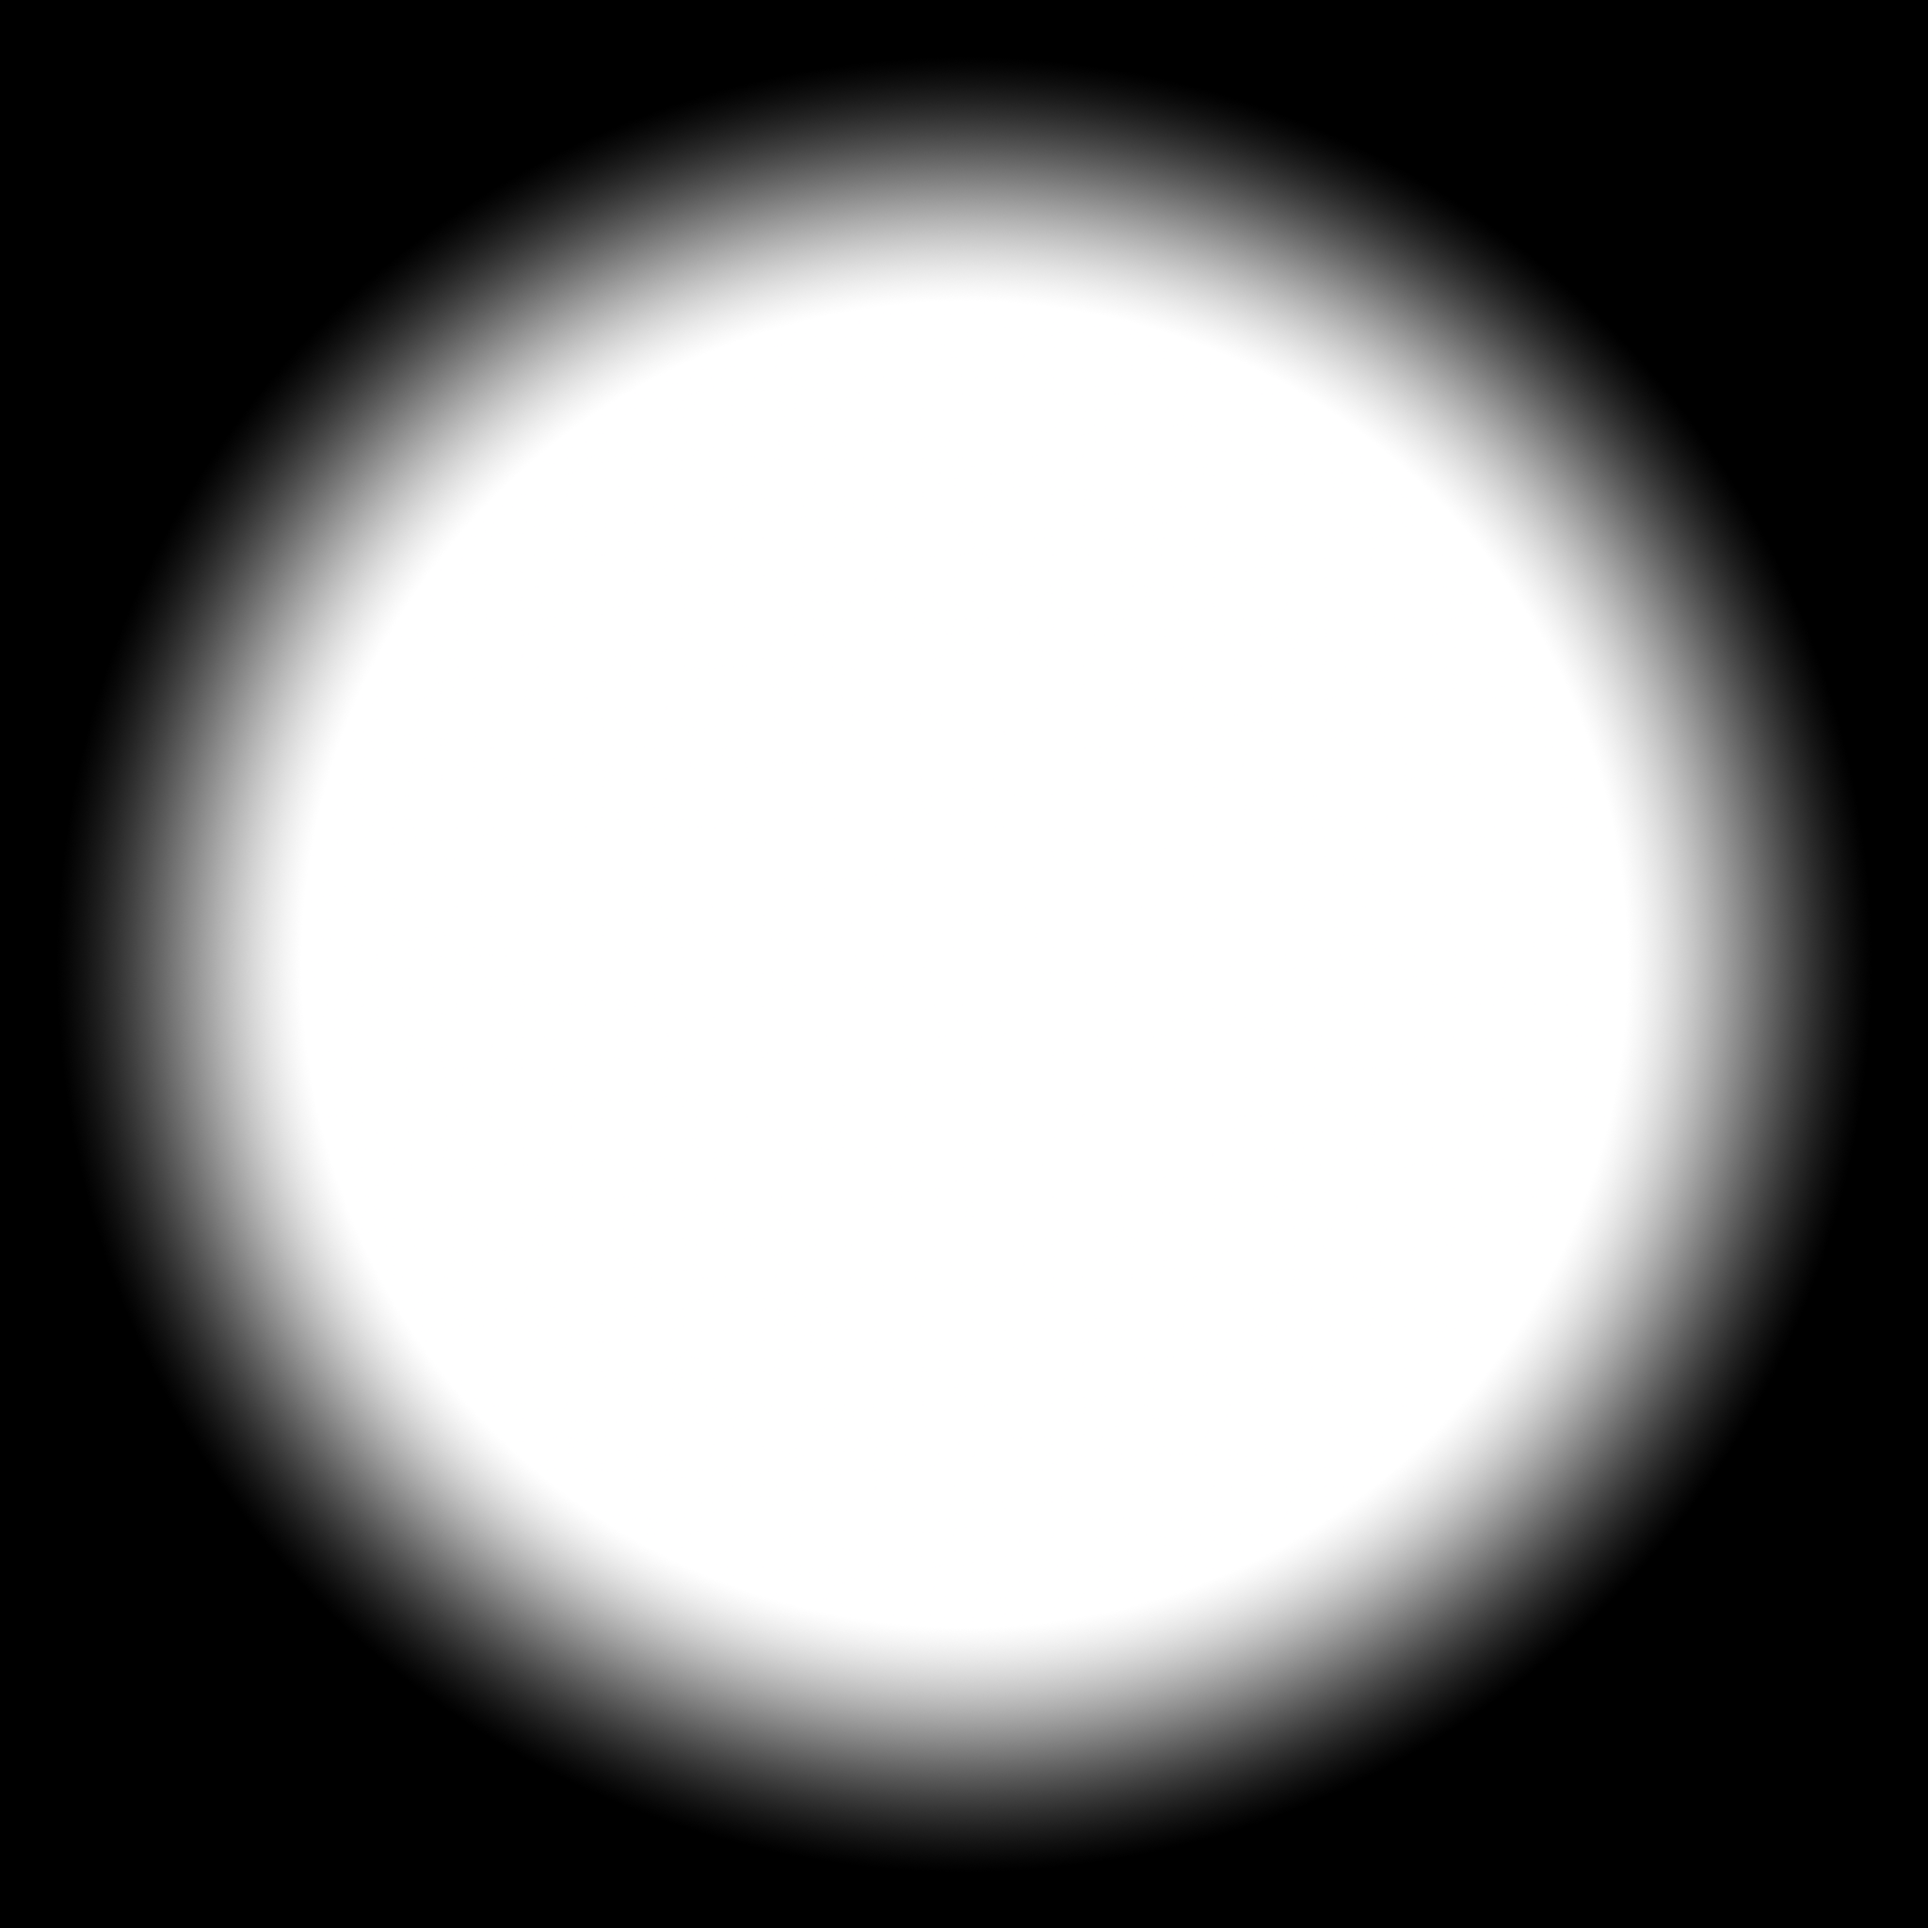
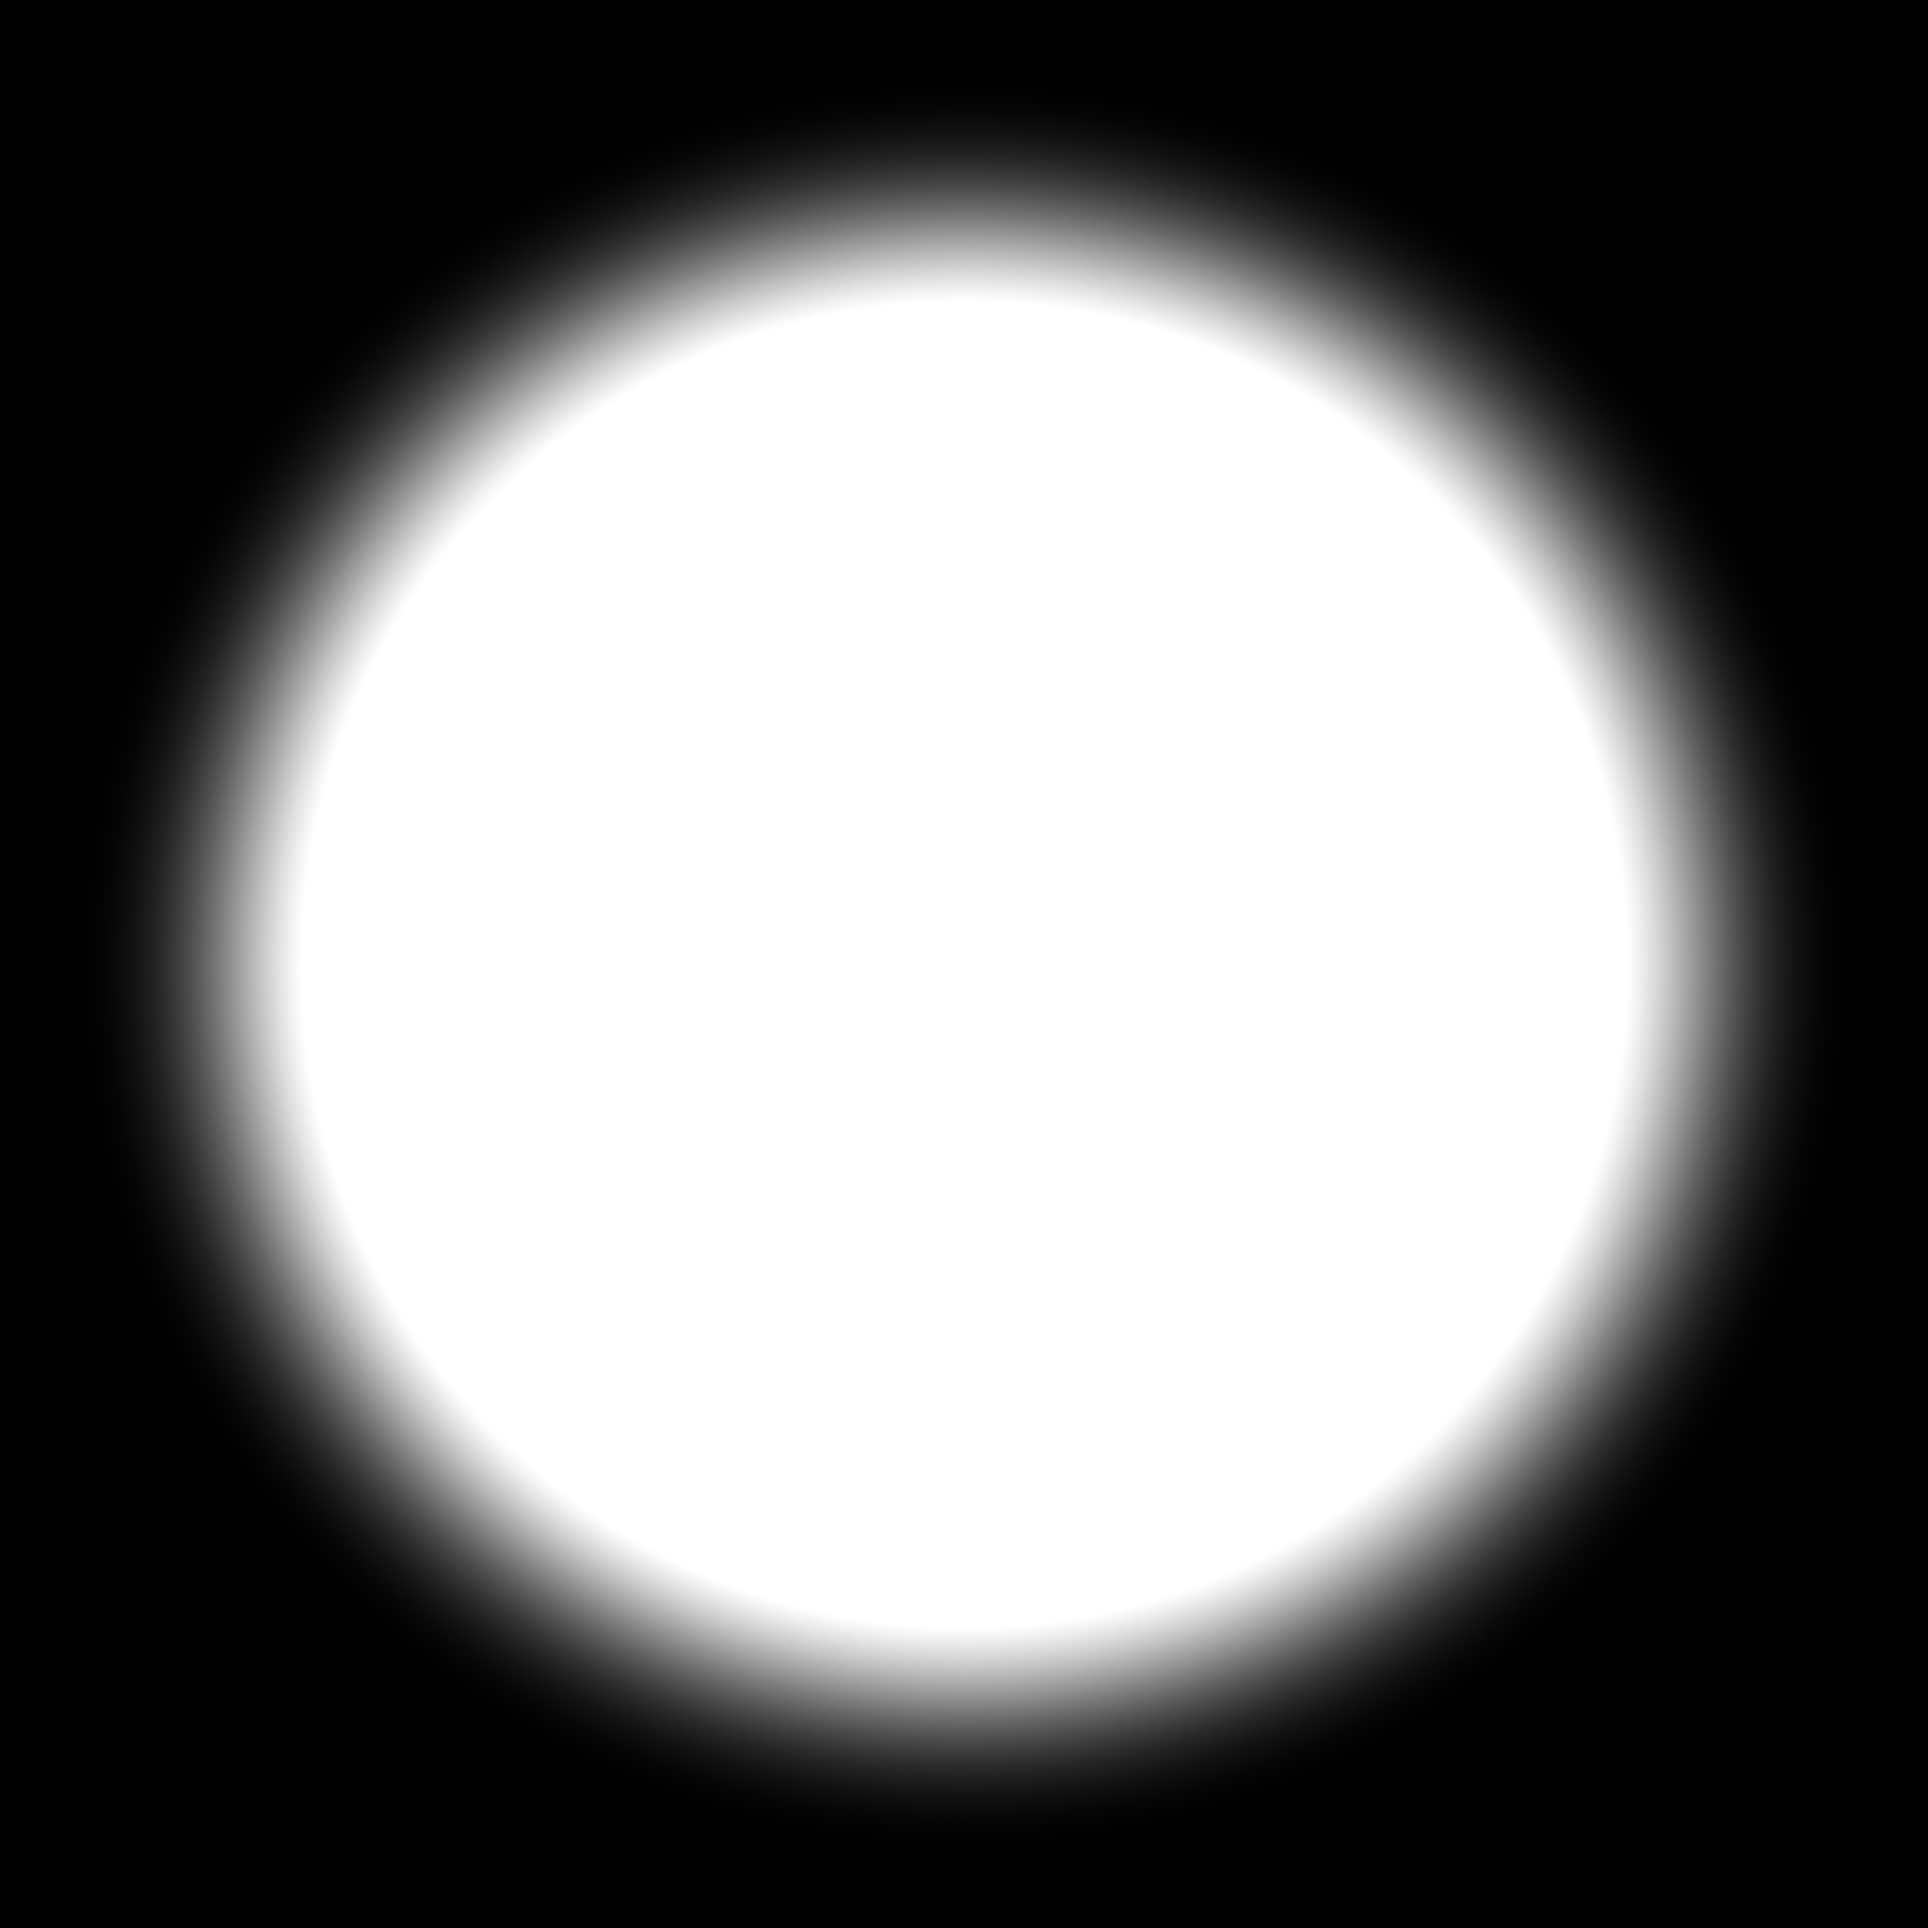
floor disc added

Changed region(s): [[0.0312, 0.0312, 0.9688, 0.9688]]

diff --git a/js/WebGL.js b/js/WebGL.js
@@ -11,7 +11,11 @@ var particle;
 var orbitcontrols
 var directionalLight;
 
+var discMap;
+var floorDisc;
+
 var ShowModelledInfinityCove = true;
+var ShowFloorDisc = false;
 var ShowParticles = false;
 //------------------------------
 
@@ -57,7 +61,7 @@ addLights();
 loadModel();
 if (ShowModelledInfinityCove) {loadCove((0));}
 if (ShowParticles) {addParticles();}
-//loadFloorDisc();
+loadFloorDisc();
 
 animate();
 
@@ -112,6 +116,15 @@ Covebutton.addEventListener ("click", function() {
     ShowModelledInfinityCove = !ShowModelledInfinityCove;
 });
 
+var FloorDiscbutton = document.createElement("button");
+FloorDiscbutton.innerHTML = "Toggle FloorDisc";
+var body = document.getElementsByTagName("body")[0];
+body.appendChild(FloorDiscbutton);
+
+FloorDiscbutton.addEventListener ("click", function() {
+    ShowFloorDisc = !ShowFloorDisc;
+});
+
 var Covebutton1 = document.createElement("button");
 Covebutton1.innerHTML = "Cove 1";
 var body = document.getElementsByTagName("body")[0];
@@ -161,6 +174,8 @@ function animateOptionals()
 {
     if (cove != undefined){cove.visible = ShowModelledInfinityCove;}
 
+    if (floorDisc != undefined){floorDisc.visible = ShowFloorDisc;}
+
     //if (house != undefined){house.rotation.y += 0.01;}
 
     if (ShowParticles){particle.rotation.y -= 0.0040;}
@@ -197,7 +212,7 @@ scene.add( amblight );
 //Vector3 {x: 3.3000000000000003, y: 3.500000000000003, z: -2.900000000000001}
 directionalLight = new THREE.DirectionalLight( 0xffffff, 1,100 );
 directionalLight.position.set(3.3,3.5,-2.9)
-directionalLight.castShadow = true;
+//directionalLight.castShadow = true;
 directionalLight.shadow.mapSize.width = 512;  // default
 directionalLight.shadow.mapSize.height = 512; // default
 directionalLight.shadow.camera = new THREE.OrthographicCamera( -20, 20, 20, -20, 0.001, 60);
@@ -229,12 +244,10 @@ function loadModel()
 
         house.traverse( function ( child ) 
         {
-            console.log(child.name);
             if (child.name.toLowerCase() == "sun")
             {
                 directionalLight.position.copy(child.position);
                 house.remove(child);
-                //sphere.position.copy(child.position);
             }
 
             if ( child.isMesh ) 
@@ -325,49 +338,45 @@ loader.load( coveAddress, function ( gltf ) {
 
 function loadFloorDisc()
 {
-    /*
-    var DiscMaterial = new THREE.MeshPhysicalMaterial( {
-        map: null,
-        color: 0x1A1A1A,
-        metalness: 0,
-        roughness: 0,
-        opacity: 0.25,
-        side: THREE.FrontSide,
-        transparent: true,
-        envMapIntensity: 10,
-        premultipliedAlpha: true
-        } );
-*/
-       var discAddress = 'model/FloorDisc.gltf';
+    var discMap = new THREE.TextureLoader().load( 'model/CirclePlaneBW.png' );//'model/CirclePlaneBWInvert.png'//'model/CirclePlane.png'
+
+       var discAddress = 'model/Baked/FloorDisc.gltf';
     var loader = new THREE.GLTFLoader();
 
 loader.load( discAddress, function ( gltf ) {
 
-    var disc = gltf.scene;
-    scene.add( disc );
+    floorDisc = gltf.scene;
+    scene.add( floorDisc );
 
-    cove.traverse( function ( child ) 
+    floorDisc.traverse( function ( child ) 
     {
         if ( child.isMesh ) 
         {
+            console.log(child.material);
             child.castShadow = false;
-            child.receiveShadow = true;
-            //child.material = DiscMaterial;
-            //child.material.transparent= true;
-            child.material.alphaTest = 0.5;
+            child.material.transparent = true;
+            //child.material.alphaTest = 0.5;
+
+            //var discMap = new THREE.TextureLoader().load( 'model/CirclePlaneBW.png' );//'model/CirclePlaneBWInvert.png'//'model/CirclePlane.png'
+
+            child.material.alphaMap = discMap;
+            
+            //child.material.map.format = 1023;  // was reporting as 1022 (no alpha)
+			//child.material.needsUpdate=true;
             //child.material.alphaMap = child.material.colorMap;//'model/CirclePlaneBW.png'
             //child.material.colorMap = null;
-            //child.material.needsUpdate =  true;
+            child.material.needsUpdate =  true;
             //child.material.roughness = 0;
+            //console.log(child.material);
         }
     });
 
-    disc.position.set(0,1,0);
-    disc.scale.set(5,5,5);
+    //disc.position.set(0,1,0);
+    //disc.scale.set(5,5,5);
     },
     // called while loading is progressing
     function ( xhr ) {
-        console.log("disc "+ ( xhr.loaded / xhr.total * 100 ) + '% loaded' );
+        console.log("floorDisc "+ ( xhr.loaded / xhr.total * 100 ) + '% loaded' );
     }, undefined, function ( error ) {
         console.error( error );
     } );

diff --git a/index.html b/index.html
@@ -10,11 +10,20 @@
   width: 100%;
   height: 100%;
   
-  background: #11e8bb; /* Old browsers */
-  background: -moz-linear-gradient(top,  #ffbeb3 0%, #636492 100%); /* FF3.6-15 */
-  background: -webkit-linear-gradient(top,  #ffbeb3 0%,#636492 100%); /* Chrome10-25,Safari5.1-6 */
-  background: linear-gradient(to bottom,  #ffbeb3 0%,#636492 100%); /* W3C, IE10+, FF16+, Chrome26+, Opera12+, Safari7+ */
-  filter: progid:DXImageTransform.Microsoft.gradient( startColorstr='#11e8bb', endColorstr='#8200c9',GradientType=0 ); /* IE6-9 */
+  background: #e9e9e9;
+  background: -moz-linear-gradient(top,  #e9e9e9 0%, #b6b6b6 100%);
+  background: -webkit-linear-gradient(top,  #e9e9e9 0%,#b6b6b6 100%);
+  background: linear-gradient(to bottom,  #e9e9e9 0%,#b6b6b6 100%);
+  filter: progid:DXImageTransform.Microsoft.gradient( startColorstr='#11e8bb', endColorstr='#8200c9',GradientType=0 );
+
+
+  /*
+  background: #ffbeb3;  Old browsers 
+  background: -moz-linear-gradient(top,  #ffbeb3 0%, #636492 100%);  FF3.6-15
+  background: -webkit-linear-gradient(top,  #ffbeb3 0%,#636492 100%);  Chrome10-25,Safari5.1-6
+  background: linear-gradient(to bottom,  #ffbeb3 0%,#636492 100%);  W3C, IE10+, FF16+, Chrome26+, Opera12+, Safari7+ 
+  filter: progid:DXImageTransform.Microsoft.gradient( startColorstr='#11e8bb', endColorstr='#8200c9',GradientType=0 );  IE6-9
+  */
 }
 
 button:hover {
